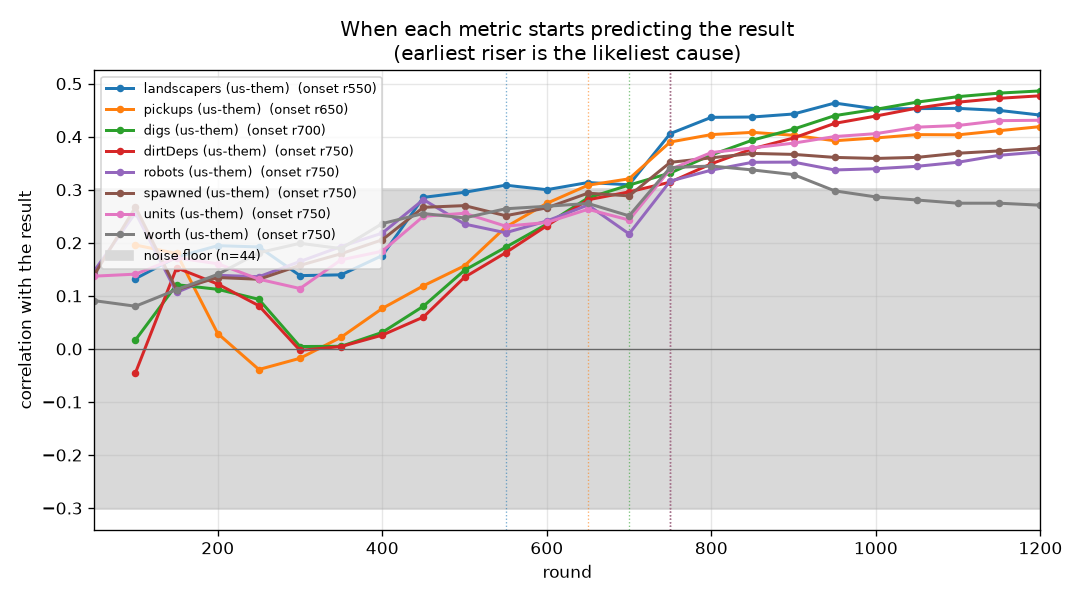
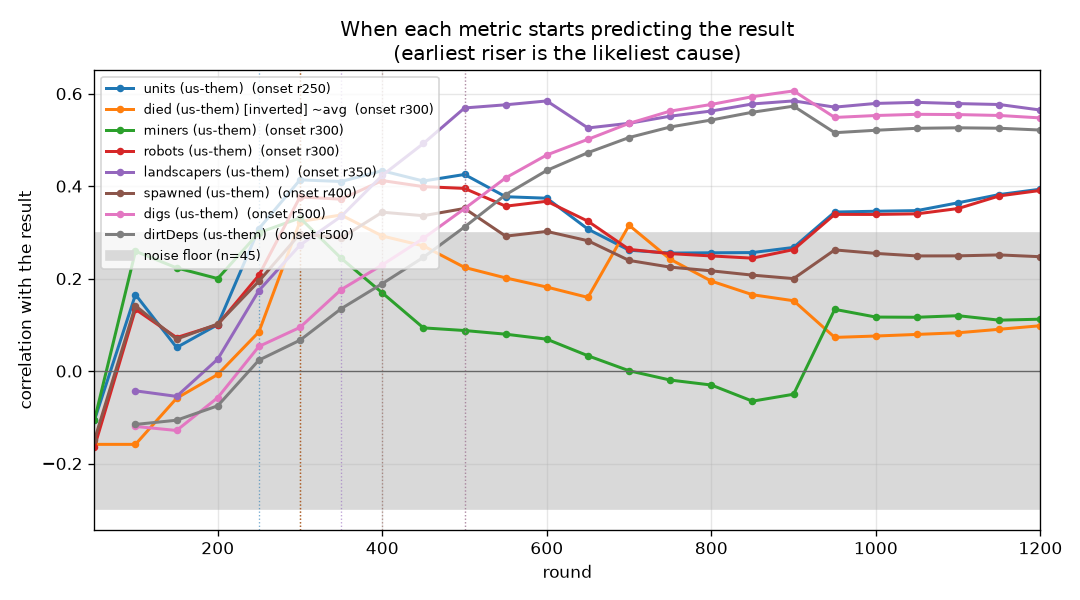
Onset tables regenerated after the second 40c arm block
Claude-Session: https://claude.ai/code/session_015tNyF5ucwWW1mudpEQTT25

diff --git a/progress/ONSET.md b/progress/ONSET.md
@@ -1,6 +1,6 @@
 # Which metric starts predicting the result first
 
-44 games, 30 wins. Noise floor about 0.30; a correlation inside that band is not evidence.
+45 games, 26 wins. Noise floor about 0.30; a correlation inside that band is not evidence.
 
 Every metric is oriented so **higher is better for us**, so a positive correlation always means
 "this being better goes with winning". `~avg` is the running mean over all rounds so far rather than
@@ -12,46 +12,46 @@ See `progress/METRICS.md` for how each quantity is computed.
 
 | onset | anti | metric | peak corr | r100 | r200 | r300 | r400 | r600 | r900 |
 |---|---|---|---|---|---|---|---|---|---|
-| r550 | - | landscapers (us-them) | +0.46 | +0.13 | +0.19 | +0.14 | +0.18 | +0.30 | +0.44 |
-| r550 | - | landscapers (us-them) ~avg | +0.42 | +0.21 | +0.24 | +0.19 | +0.18 | +0.32 | +0.38 |
-| r650 | - | pickups (us-them) | +0.42 | +0.20 | +0.03 | -0.02 | +0.08 | +0.27 | +0.40 |
-| r700 | - | digs (us-them) | +0.49 | +0.02 | +0.11 | +0.00 | +0.03 | +0.24 | +0.41 |
-| r750 | - | dirtDeps (us-them) | +0.48 | -0.04 | +0.12 | -0.00 | +0.03 | +0.23 | +0.40 |
-| r750 | - | robots (us-them) | +0.37 | +0.26 | +0.14 | +0.16 | +0.22 | +0.24 | +0.35 |
-| r750 | - | robots (us-them) ~avg | +0.33 | +0.30 | +0.22 | +0.18 | +0.18 | +0.26 | +0.32 |
-| r750 | - | spawned (us-them) | +0.38 | +0.27 | +0.13 | +0.16 | +0.21 | +0.27 | +0.37 |
-| r750 | - | spawned (us-them) ~avg | +0.33 | +0.30 | +0.22 | +0.18 | +0.18 | +0.27 | +0.33 |
-| r750 | - | units (us-them) | +0.43 | +0.14 | +0.16 | +0.11 | +0.18 | +0.24 | +0.39 |
-| r750 | - | units (us-them) ~avg | +0.37 | +0.18 | +0.23 | +0.16 | +0.17 | +0.28 | +0.34 |
-| r750 | - | worth (us-them) | +0.34 | +0.08 | +0.14 | +0.20 | +0.24 | +0.27 | +0.33 |
-| r850 | - | pickups (us-them) ~avg | +0.37 | +0.20 | +0.11 | +0.01 | +0.04 | +0.15 | +0.33 |
-| r850 | - | worth (us-them) ~avg | +0.31 | +0.11 | +0.13 | +0.15 | +0.15 | +0.23 | +0.31 |
-| r1000 | - | digs (us-them) ~avg | +0.37 | +0.06 | +0.15 | +0.06 | +0.04 | +0.14 | +0.25 |
-| r1050 | - | dirtDeps (us-them) ~avg | +0.36 | +0.00 | +0.16 | +0.05 | +0.03 | +0.13 | +0.24 |
-| - | - | aba (us-them) [inverted] | -0.14 | +0.03 | -0.06 | -0.08 | -0.03 | -0.12 | -0.06 |
-| - | - | aba (us-them) [inverted] ~avg | -0.14 | -0.00 | -0.02 | -0.10 | -0.06 | -0.08 | -0.07 |
-| - | - | cov (us-them) | +0.23 | +0.10 | +0.03 | +0.06 | +0.09 | +0.00 | +0.17 |
-| - | - | cov (us-them) ~avg | +0.10 | +0.06 | +0.00 | +0.01 | +0.05 | +0.01 | +0.04 |
-| - | - | died (us-them) [inverted] | -0.25 | -0.06 | +0.11 | -0.00 | +0.03 | -0.13 | -0.09 |
-| - | - | died (us-them) [inverted] ~avg | +0.19 | +0.11 | +0.18 | -0.01 | -0.02 | -0.08 | -0.14 |
-| - | - | drones (us-them) | +0.22 | +0.17 | +0.00 | +0.04 | -0.16 | -0.07 | +0.04 |
-| - | - | drones (us-them) ~avg | +0.24 | +0.17 | +0.13 | +0.05 | -0.08 | -0.08 | +0.02 |
+| r250 | - | units (us-them) | +0.43 | +0.17 | +0.10 | +0.41 | +0.43 | +0.37 | +0.27 |
+| r300 | - | died (us-them) [inverted] ~avg | +0.34 | -0.16 | -0.01 | +0.32 | +0.29 | +0.18 | +0.15 |
+| r300 | - | miners (us-them) | +0.33 | +0.26 | +0.20 | +0.33 | +0.17 | +0.07 | -0.05 |
+| r300 | - | miners (us-them) ~avg | +0.33 | +0.11 | +0.16 | +0.32 | +0.30 | +0.21 | +0.12 |
+| r300 | - | robots (us-them) | +0.41 | +0.13 | +0.10 | +0.38 | +0.41 | +0.37 | +0.26 |
+| r350 | - | landscapers (us-them) | +0.58 | -0.04 | +0.03 | +0.27 | +0.42 | +0.58 | +0.58 |
+| r350 | - | units (us-them) ~avg | +0.42 | +0.03 | +0.07 | +0.28 | +0.39 | +0.42 | +0.38 |
+| r400 | - | robots (us-them) ~avg | +0.38 | +0.03 | +0.08 | +0.23 | +0.33 | +0.37 | +0.34 |
+| r400 | - | spawned (us-them) | +0.35 | +0.14 | +0.10 | +0.30 | +0.34 | +0.30 | +0.20 |
+| r500 | - | digs (us-them) | +0.61 | -0.12 | -0.06 | +0.09 | +0.23 | +0.47 | +0.61 |
+| r500 | - | dirtDeps (us-them) | +0.57 | -0.12 | -0.08 | +0.07 | +0.19 | +0.43 | +0.57 |
+| r500 | - | landscapers (us-them) ~avg | +0.63 | -0.09 | -0.02 | +0.09 | +0.23 | +0.45 | +0.61 |
+| r600 | - | digs (us-them) ~avg | +0.56 | -0.14 | -0.05 | +0.05 | +0.16 | +0.32 | +0.52 |
+| r650 | - | dirtDeps (us-them) ~avg | +0.52 | -0.13 | -0.06 | +0.02 | +0.13 | +0.28 | +0.49 |
+| - | r300 | aba (us-them) [inverted] | -0.47 | -0.17 | -0.22 | -0.33 | -0.41 | -0.47 | -0.34 |
+| - | r350 | aba (us-them) [inverted] ~avg | -0.44 | -0.18 | -0.21 | -0.28 | -0.34 | -0.43 | -0.43 |
+| - | - | cov (us-them) | -0.16 | -0.05 | +0.02 | +0.07 | -0.03 | -0.16 | -0.04 |
+| - | - | cov (us-them) ~avg | -0.05 | -0.04 | -0.03 | +0.02 | +0.03 | -0.02 | -0.05 |
+| - | - | died (us-them) [inverted] | +0.30 | -0.16 | +0.00 | +0.29 | +0.17 | +0.11 | +0.06 |
+| - | - | drones (us-them) | -0.18 | +0.10 | -0.09 | +0.00 | -0.11 | -0.09 | -0.18 |
+| - | - | drones (us-them) ~avg | -0.13 | +0.10 | +0.04 | +0.03 | -0.01 | -0.09 | -0.13 |
 | - | - | drowned (us-them) [inverted] | . | . | . | . | . | . | . |
 | - | - | drowned (us-them) [inverted] ~avg | . | . | . | . | . | . | . |
-| - | - | hqBuried (us-them) [inverted] | +0.20 | . | +0.20 | +0.11 | . | . | . |
-| - | - | hqBuried (us-them) [inverted] ~avg | +0.20 | . | +0.20 | +0.11 | . | . | . |
-| - | - | miners (us-them) | +0.19 | -0.02 | -0.01 | -0.01 | +0.19 | +0.17 | +0.14 |
-| - | - | miners (us-them) ~avg | +0.17 | +0.02 | -0.01 | -0.03 | +0.07 | +0.13 | +0.17 |
-| - | - | mines (us-them) | +0.23 | -0.02 | +0.02 | +0.03 | +0.04 | +0.18 | +0.22 |
-| - | - | mines (us-them) ~avg | +0.23 | -0.04 | +0.03 | +0.02 | +0.00 | +0.13 | +0.21 |
-| - | - | moves (us-them) | -0.18 | +0.08 | -0.15 | -0.13 | -0.15 | -0.14 | -0.11 |
-| - | - | moves (us-them) ~avg | -0.20 | +0.07 | -0.16 | -0.18 | -0.18 | -0.15 | -0.10 |
-| - | - | netguns (us-them) | -0.19 | . | -0.19 | +0.10 | +0.09 | +0.03 | +0.06 |
-| - | - | netguns (us-them) ~avg | -0.20 | . | -0.20 | -0.02 | +0.04 | +0.06 | +0.05 |
-| - | - | soup (us-them) | -0.29 | -0.29 | -0.02 | -0.05 | -0.04 | +0.09 | +0.14 |
-| - | r100 | soup (us-them) ~avg | -0.33 | -0.33 | -0.19 | -0.09 | -0.09 | -0.05 | +0.09 |
-| - | - | vaporators (us-them) | +0.27 | +0.13 | +0.07 | +0.18 | +0.20 | +0.24 | +0.25 |
-| - | - | vaporators (us-them) ~avg | +0.22 | +0.13 | +0.01 | +0.07 | +0.12 | +0.16 | +0.22 |
+| - | - | hqBuried (us-them) [inverted] | +0.27 | +0.22 | . | . | +0.03 | +0.19 | +0.18 |
+| - | - | hqBuried (us-them) [inverted] ~avg | +0.28 | +0.28 | +0.24 | +0.24 | +0.19 | +0.22 | +0.25 |
+| - | - | mines (us-them) | +0.30 | -0.01 | +0.10 | +0.18 | +0.26 | +0.25 | +0.16 |
+| - | - | mines (us-them) ~avg | +0.28 | -0.04 | +0.07 | +0.13 | +0.20 | +0.27 | +0.23 |
+| - | - | moves (us-them) | +0.29 | +0.01 | +0.07 | +0.13 | +0.22 | +0.29 | +0.14 |
+| - | - | moves (us-them) ~avg | +0.26 | +0.08 | +0.07 | +0.13 | +0.19 | +0.25 | +0.22 |
+| - | - | netguns (us-them) | -0.20 | . | +0.12 | -0.14 | -0.12 | -0.16 | -0.15 |
+| - | - | netguns (us-them) ~avg | -0.18 | . | +0.12 | -0.09 | -0.12 | -0.15 | -0.18 |
+| - | - | pickups (us-them) | +0.28 | +0.23 | +0.14 | +0.01 | -0.10 | +0.04 | +0.16 |
+| - | - | pickups (us-them) ~avg | +0.27 | +0.23 | +0.23 | +0.10 | -0.02 | -0.01 | +0.09 |
+| - | - | soup (us-them) | +0.26 | -0.05 | +0.09 | -0.03 | -0.24 | -0.19 | -0.06 |
+| - | - | soup (us-them) ~avg | -0.22 | -0.01 | +0.07 | +0.13 | -0.03 | -0.18 | -0.15 |
+| - | - | spawned (us-them) ~avg | +0.30 | +0.04 | +0.08 | +0.20 | +0.27 | +0.30 | +0.25 |
+| - | - | vaporators (us-them) | +0.26 | . | -0.02 | -0.18 | +0.08 | +0.18 | +0.10 |
+| - | - | vaporators (us-them) ~avg | +0.17 | . | +0.01 | -0.11 | -0.08 | +0.03 | +0.09 |
+| - | - | worth (us-them) | +0.28 | +0.01 | +0.07 | +0.16 | +0.23 | +0.28 | +0.16 |
+| - | - | worth (us-them) ~avg | +0.21 | -0.02 | +0.06 | +0.10 | +0.15 | +0.20 | +0.20 |
 
 **Reading it.** Earliest onset is the first place to look: temporal precedence is the one causal hint a
 correlation can honestly give. Late-onset metrics are usually the scoreboard rather than the cause -- by then
